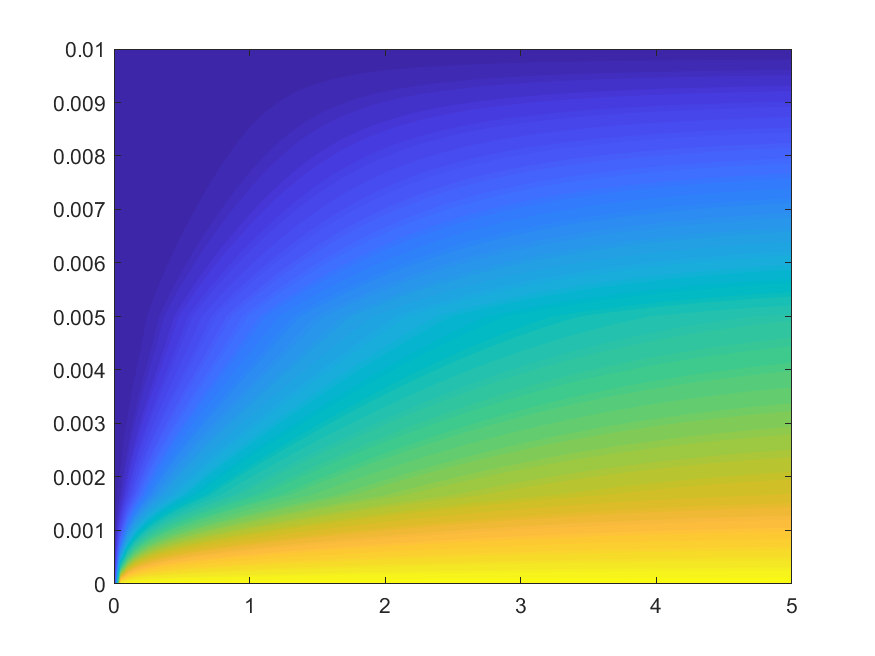
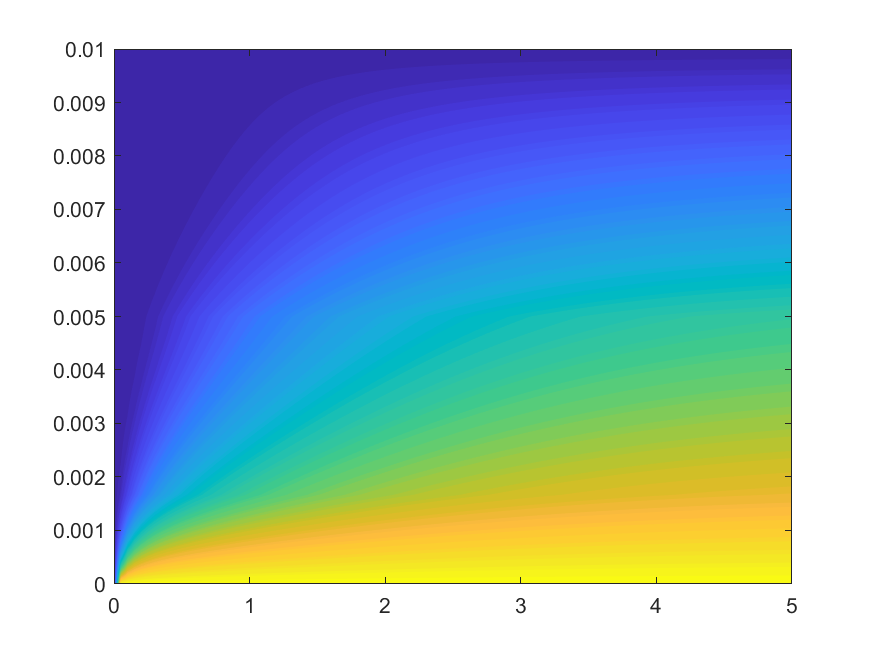
Update quicksciprts and graphs

Changed region(s): [[0.216, 0.5488, 0.9257, 0.8232]]

diff --git a/part2ci.m b/part2ci.m
@@ -18,7 +18,7 @@ P2C.Transient.dt=0.05;
 P2C.BCS.D=[[393.15,0];[310.15,0.01];];
 P2C.ConstantInit(310.15);
 P2C.Solve(false);
-changeTime=P2C.PlotAtTime([2,5,50]);
+changeTime=P2C.PlotAtTime([0.05,0.5,2,5,50]);
 figure(changeTime);
 plotSkin;
 saveas(changeTime,'status/cw2/timeoverview_2ci.png');

diff --git a/part2cii.m b/part2cii.m
@@ -4,7 +4,7 @@ close all;
 Skin=Skin();
 performanceCounter=0;
 steps=[10,2,0.5];
-dts=[0.1,0.1,0.1];
+dts=[0.1,0.05,0.05];
 tempBounds=[323.15,393.15];
 
 tic; % Star timing search
